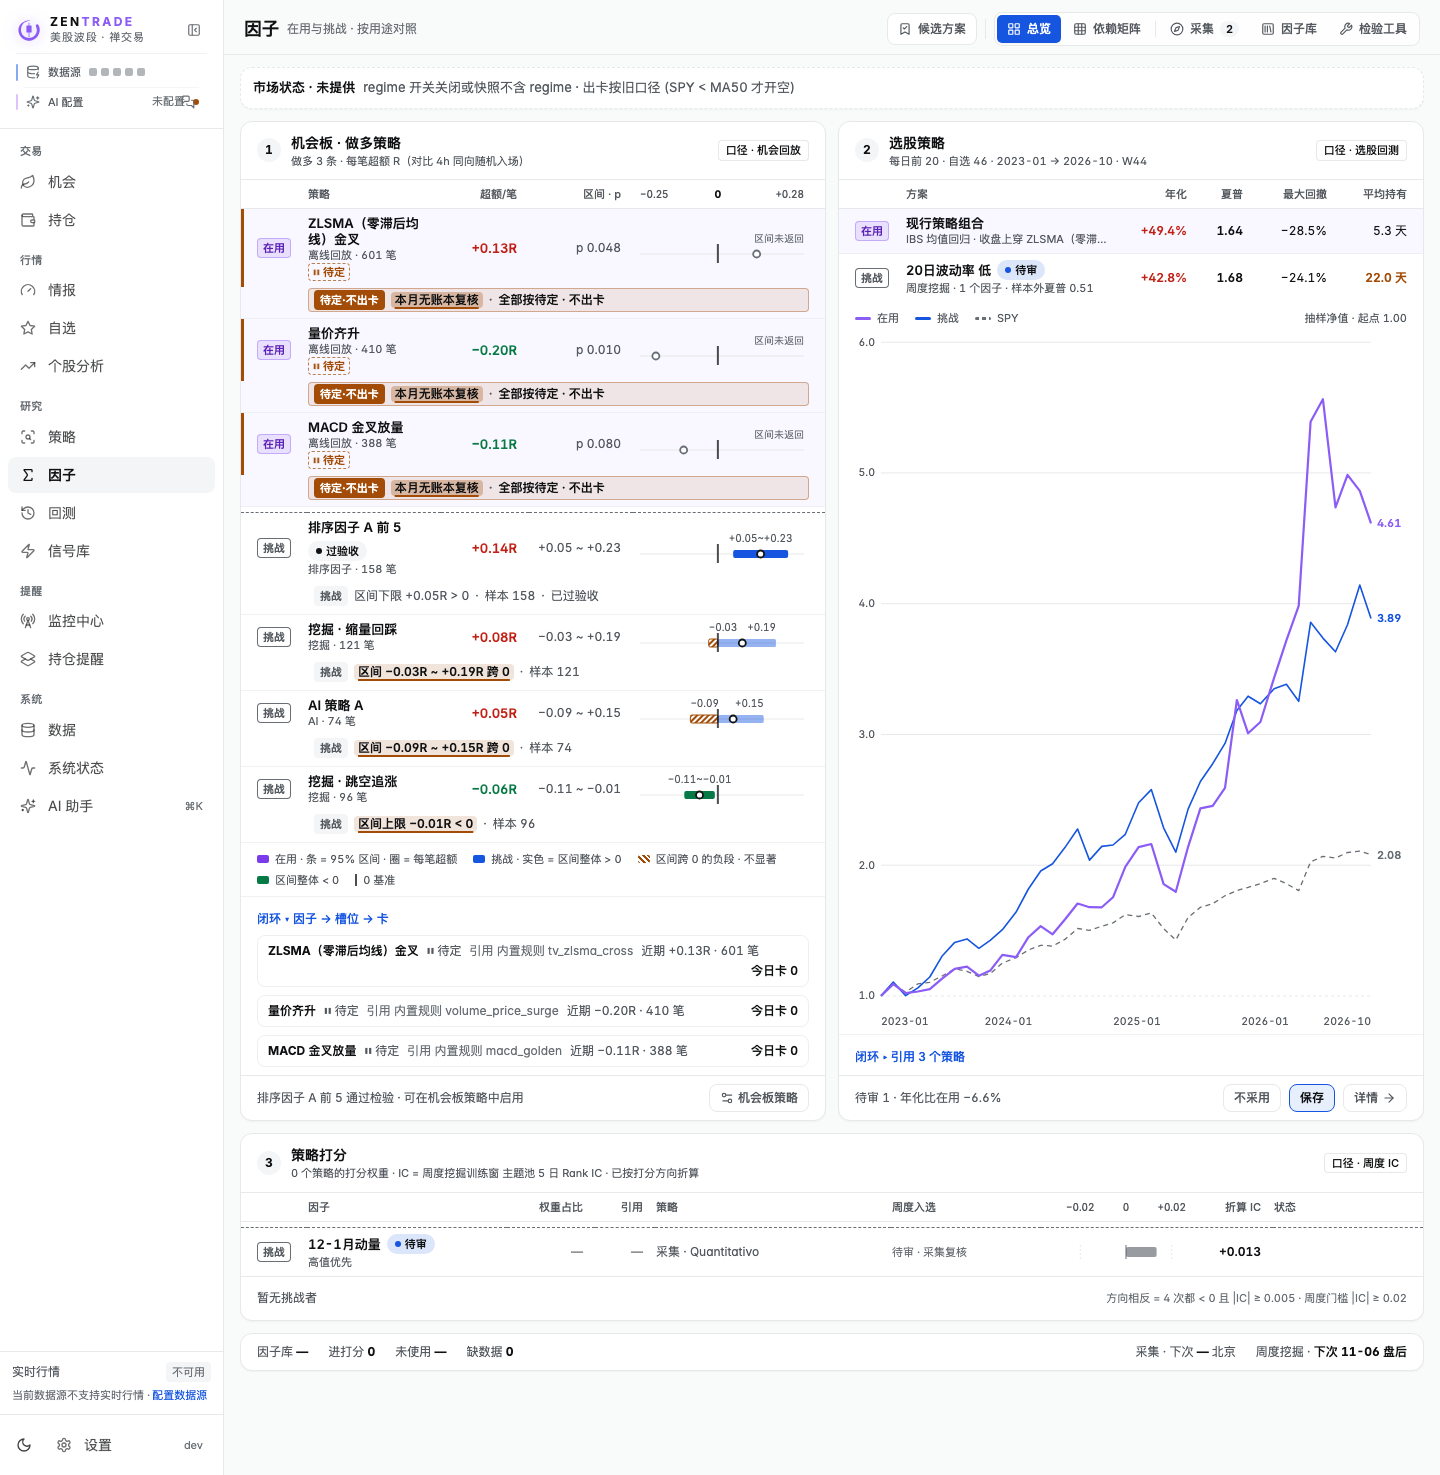
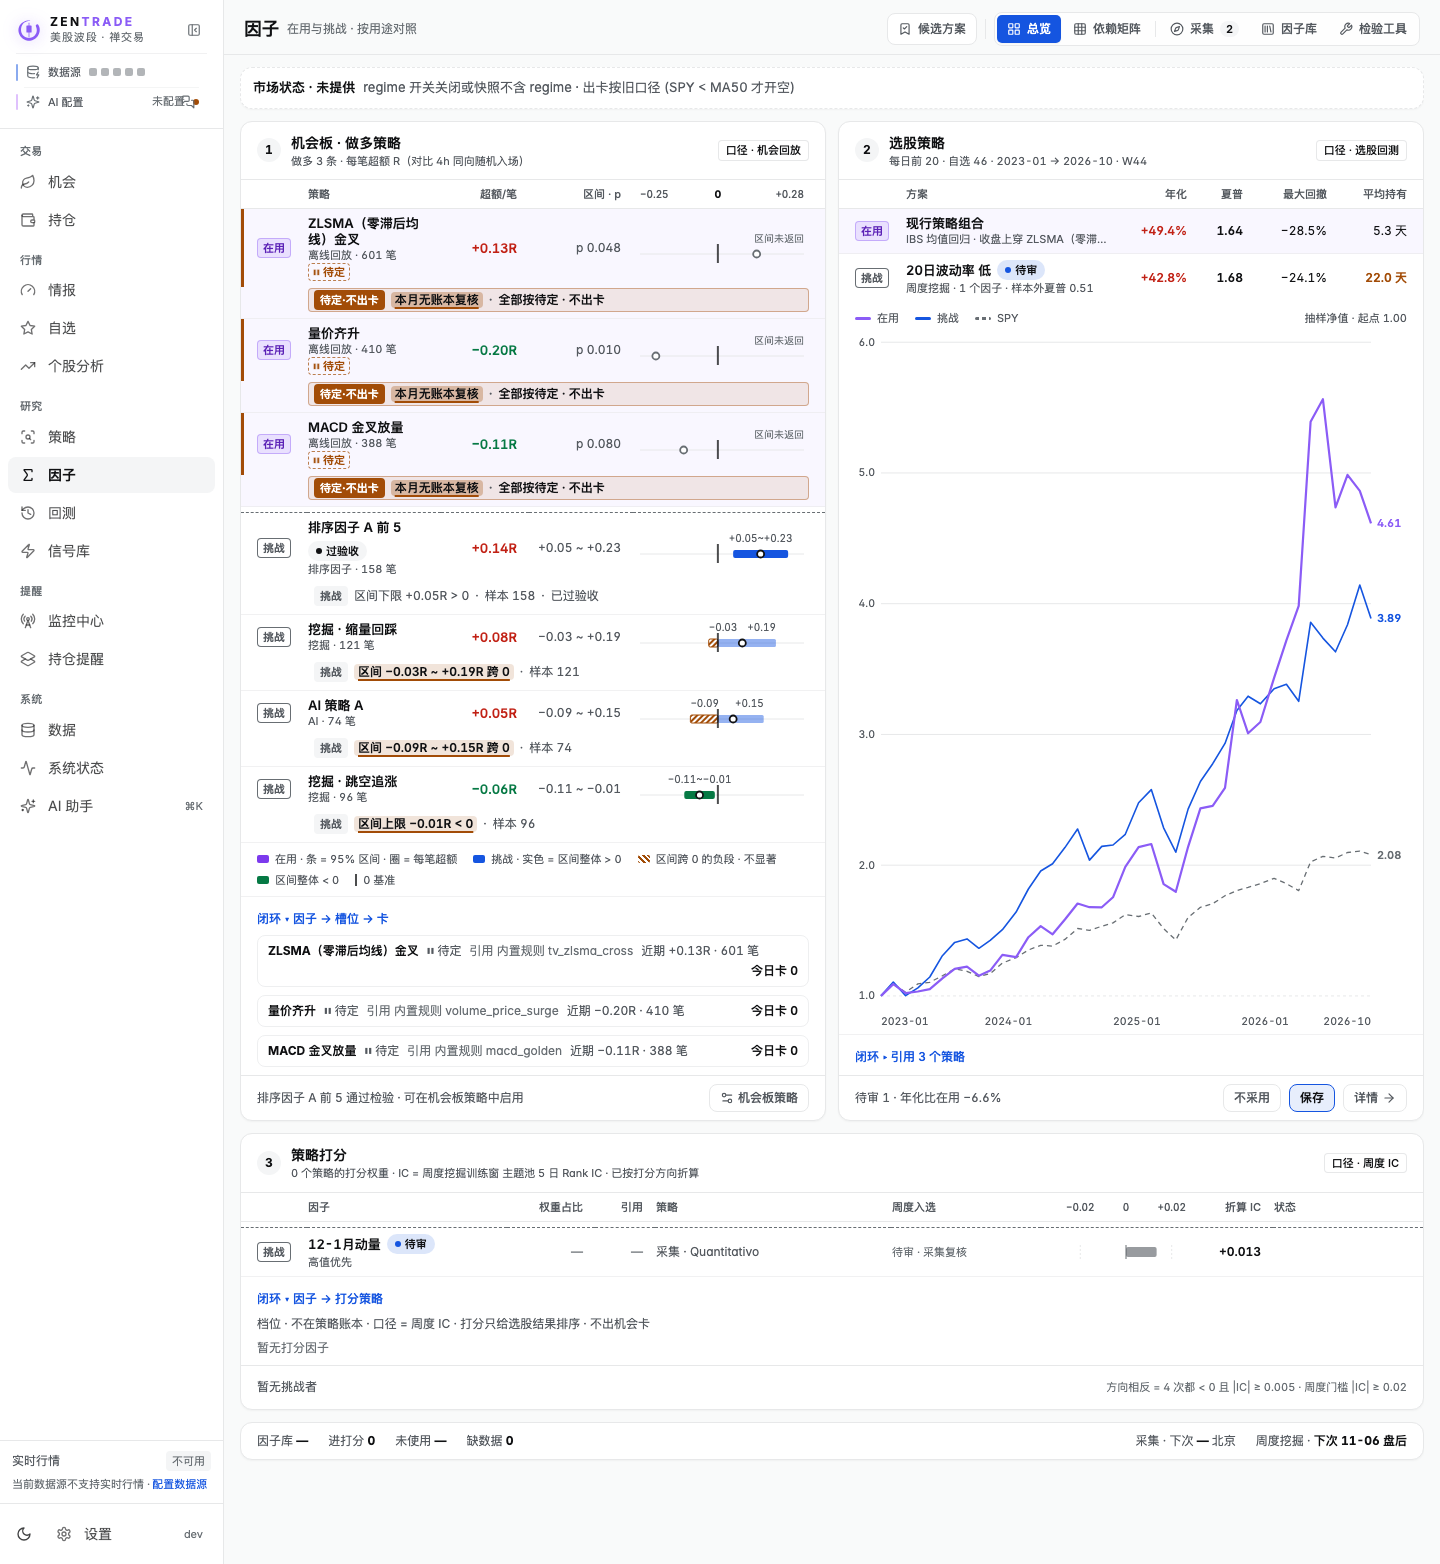
docs(ekko-todo): #10 审查修正截图与 README: 写明账本区间未交付(依赖后端卡 #11)及向前兼容效果 / 细节10出处 / 持仓网格同改 / 宽屏末行 / 自检加末行与打分闭环计数

diff --git a/frontend/src/components/opportunities/__fixtures__/p1scenes.ts b/frontend/src/components/opportunities/__fixtures__/p1scenes.ts
@@ -43,6 +43,13 @@ export const OPP = {
     strategies: [{ id: 'tv_zlsma_cross', name: 'ZLSMA 金叉' }], score_components: { rules: [{ strategy: 'tv_zlsma_cross', n: 601, excess: 0.127, shrunk: 0.121, tier: 'active' }], k: 30, total: 0.121 } }],
   { regime: REGIME_CALM, ledger: { ...LEDGER, regime: '进攻', cells: { 'tv_zlsma_cross|long': { n: 601, excess: 0.127, tier: '在用' } } } }), ['tv_zlsma_cross'], []),
   empty: page(swingWith([], { regime: REGIME_CALM, ledger: { ...LEDGER, regime: '进攻', cells: { 'tv_zlsma_cross|long': { n: 601, excess: 0.127, tier: '在用' } } } }), ['tv_zlsma_cross'], []),
+  /** 模拟后端卡 #11 合并后: 账本格带 ci_low / ci_high (现行后端不带) */
+  ci: page(swingWith([], { regime: REGIME_CALM, ledger: { ...LEDGER, regime: '进攻', cells: {
+    'tv_zlsma_cross|long': { n: 601, excess: 0.127, tier: '在用', ci_low: 0.001, ci_high: 0.252 },
+    'tv_halftrend|short': { n: 164, excess: 0.249, tier: '在用', ci_low: 0.147, ci_high: 0.352 },
+    'tv_chandelier_exit|short': { n: 210, excess: 0.031, tier: '观察', ci_low: -0.05, ci_high: 0.11 },
+    'volume_price_surge|long': { n: 410, excess: -0.203, tier: '冷冻', ci_low: -0.31, ci_high: -0.09 },
+    'macd_golden|long': { n: 388, excess: -0.112, tier: '待定' } } } }), ['tv_zlsma_cross'], SHORT),
   anomaly: page(swingWith([CARDS.observe, CARDS.t1], { ledger: { status: 'unavailable', month: '2026-12', regime: '震荡', k: 30, cells: {} } }), LONG3, SHORT),
 }
 

diff --git a/docs/ui-shots/tools/shoot.py b/docs/ui-shots/tools/shoot.py
@@ -78,12 +78,21 @@ COUNT_JS = r"""() => {
   for (const r of q('[data-loop-rule]')) {
     const c = r.querySelector('[data-loop-count]'); eq(`闭环 ${r.getAttribute('data-loop-rule')}`, Number(c.getAttribute('data-loop-count')), r.querySelectorAll('[data-loop-card]').length)
   }
-  // 末行不留整列空白: 每个卡片网格最后一张卡的右缘 = 网格内容区右缘
+  // 末行不偏到一侧: 末行左右空白相差 ≤ 2px (补齐或居中), 且任何卡不超过 2 个列宽 (宽屏不拉满整行)
   for (const g of q('[data-grid-fill]')) {
     const kids = [...g.children]; if (!kids.length) continue
-    const cs = getComputedStyle(g), gr = g.getBoundingClientRect(), last = kids[kids.length - 1].getBoundingClientRect()
-    const right = gr.right - parseFloat(cs.paddingRight) - parseFloat(cs.borderRightWidth)
-    if (right - last.right > 2) bad.push(`末行留白 ${g.getAttributeNames().filter(a => a.startsWith('data-'))[0]}: ${Math.round(right - last.right)}px`)
+    const cs = getComputedStyle(g), gr = g.getBoundingClientRect()
+    const L = gr.left + parseFloat(cs.paddingLeft) + parseFloat(cs.borderLeftWidth), Rr = gr.right - parseFloat(cs.paddingRight) - parseFloat(cs.borderRightWidth)
+    const rects = kids.map(k => k.getBoundingClientRect()), top = Math.max(...rects.map(r => Math.round(r.top)))
+    const row = rects.filter(r => Math.round(r.top) === top)
+    const lg = Math.min(...row.map(r => r.left)) - L, rg = Rr - Math.max(...row.map(r => r.right))
+    const name = g.getAttributeNames().filter(a => a.startsWith('data-') && a !== 'data-grid-fill')[0]
+    if (Math.abs(lg - rg) > 2) bad.push(`末行偏一侧 ${name}: 左 ${Math.round(lg)} 右 ${Math.round(rg)}`)
+    const col = Math.min(...rects.map(r => r.width)), gap = parseFloat(cs.columnGap) || 0
+    for (const r of rects) if (r.width > col * 2 + gap + 2) bad.push(`卡跨超过 2 列 ${name}: ${Math.round(r.width)}px`)
+  }
+  for (const f of q('[data-loop-factor]')) {
+    const c = f.querySelector('[data-loop-count]'); eq(`打分闭环 ${f.getAttribute('data-loop-factor')}`, Number(c.getAttribute('data-loop-count')), f.querySelectorAll('[data-loop-strategy]').length)
   }
   // 同一张表的区间条: 0 基准线横坐标一致 (全表同一刻度)
   for (const t of q('table')) {
@@ -130,15 +139,15 @@ PERIPHERAL = {
 
 def run():
     results, fps = {}, {}
-    plan = [('opp', s) for s in ('full', 'two', 'sparse', 'empty', 'anomaly')] + [('factor', s) for s in ('full', 'sparse', 'anomaly')]
+    plan = [('opp', s) for s in ('full', 'two', 'sparse', 'empty', 'anomaly', 'ci')] + [('factor', s) for s in ('full', 'sparse', 'anomaly')]
     with sync_playwright() as p:
         exe = os.environ.get('PW_CHROMIUM')  # 本机 playwright 包与已缓存浏览器版本不一致时显式指定
         br = p.chromium.launch(executable_path=exe) if exe else p.chromium.launch()
         for kind, sc in plan:
             for vname, vp in VIEWS.items():
-                if sc in ('sparse', 'empty', 'two') and vname == 'mobile':
+                if sc in ('sparse', 'empty', 'two', 'ci') and vname == 'mobile':
                     continue
-                if vname == 'wide' and sc != 'two':  # 宽屏只用来复现「2 张卡占 3 列」
+                if vname == 'wide' and (kind != 'opp' or sc not in ('two', 'full')):  # 宽屏: 复现「2 张卡占 3 列」+ 4 列 5 张末行
                     continue
                 if ONLY and sc not in ONLY:
                     continue
@@ -173,8 +182,10 @@ def run():
                     raise
                 if kind == 'opp' and sc == 'full' and page.locator('[data-attr-toggle="AMD"]').count():
                     page.click('[data-attr-toggle="AMD"]')
-                if kind == 'factor' and page.locator('[data-loop-toggle="board"]').count():
-                    page.click('[data-loop-toggle="board"]')
+                if kind == 'factor':
+                    for t in ('board', 'scoring'):
+                        if page.locator(f'[data-loop-toggle="{t}"]').count():
+                            page.click(f'[data-loop-toggle="{t}"]')
                 page.wait_for_timeout(400)
                 # Layout 的 <main> 是内部滚动容器: 截图前展开成文档流, full_page 才能截到整页 (只作用于截图)
                 page.add_style_tag(content='html,body,#root,#root>div{height:auto!important;min-height:0!important;overflow:visible!important}'
@@ -185,6 +196,8 @@ def run():
                 # 细节对照的局部截图
                 if kind == 'factor' and sc == 'full' and vname == 'desktop':
                     page.locator('[data-slot="board"]').screenshot(path=str(OUT / f'{PREFIX}detail-ci-reason.png'))
+                if kind == 'opp' and sc == 'ci' and vname == 'desktop':
+                    page.locator('[data-ledger]').screenshot(path=str(OUT / f'{PREFIX}detail-ledger-ci.png'))
                 if kind == 'opp' and sc in ('two', 'full') and vname in ('desktop', 'wide'):
                     page.locator('[data-board]').screenshot(path=str(OUT / f'{PREFIX}detail-grid-{sc}-{vname}.png'))
                 chk = page.evaluate(CHECK_JS, SCOPE)

diff --git a/docs/ui-shots/README.md b/docs/ui-shots/README.md
@@ -5,12 +5,26 @@
 `frontend/src/components/opportunities/__fixtures__/p1scenes.ts`, 用 [tools/dump-scenes.mjs](tools/dump-scenes.mjs) 导成 JSON,
 [tools/shoot.py](tools/shoot.py) 截图并自检。全部为虚拟数据, 非实时行情。
 
+## 未交付项 (如实说明)
+
+- **机会页账本的 95% 区间: 真实数据下未交付。** 区间依赖后端透传 `ci_low` / `ci_high`, 现行后端
+  `strategy_ledger.ledger_view` 只给 `{n, excess, tier}`; 本卡禁改后端, 已另开后端卡 #11。
+  前端已做成向前兼容: 账本格一旦带这两个字段就按全表同一刻度画区间条, 缺值的行写「区间未返回」且条宽不变;
+  #11 合并后前端无需再改。模拟 #11 合并后的效果见 [states/ledger-ci-forward-compat.png](states/ledger-ci-forward-compat.png)。
+  主截图里账本各行写「区间未返回」, 即现行后端下的真实样子。
+- **冷冻理由**: 账本切片不带「哪条触发冷冻」。只有拿到区间上限且 < 0 时才写「区间上限 X < 0」, 否则写
+  「冷冻 · 触发条件未返回 (复核连负 / 区间上限为负 / 延续上月冷冻 之一)」, 不猜具体原因。
+
 ## 主截图 (1440×900 桌面 / 390 宽手机)
 
 | 页面 | 桌面 | 手机 |
 |---|---|---|
 | 机会页 (满: 5 张可下单卡 + 观察级 1 + T1 1, 账本 7 条分五个档位, 归因展开) | [opp-desktop.png](opp-desktop.png) | [opp-mobile.png](opp-mobile.png) |
-| 因子页 (满: 在用 3 + 挑战 4, 理由行 7, 闭环展开) | [factor-desktop.png](factor-desktop.png) | [factor-mobile.png](factor-mobile.png) |
+| 因子页 (满: 在用 3 + 挑战 4, 理由行 7, 槽位 1 与槽位 3 闭环展开) | [factor-desktop.png](factor-desktop.png) | [factor-mobile.png](factor-mobile.png) |
+
+因子页理由行开头写出处「账本·<当前 regime>格 <月份>」, 与左侧「回放」超额列不同源, 不混用。
+槽位 3 (策略打分) 闭环写明「不在策略账本 · 口径 = 周度 IC · 打分只给选股结果排序 · 不出机会卡」;
+截图数据里打分策略列表为空, 所以展开处显示「暂无打分因子」, 有数据时的渲染由 vitest 用例守着。
 
 ## 数据密度
 
@@ -18,22 +32,29 @@
 - 异常 (观察级卡 + T1 卡 + 无 regime 降级 + 账本 unavailable):
   [机会页桌面](states/opp-anomaly-desktop.png) · [机会页手机](states/opp-anomaly-mobile.png) ·
   [因子页桌面](states/factor-anomaly-desktop.png) · [因子页手机](states/factor-anomaly-mobile.png)
+- 宽屏 1920 满卡: [states/opp-full-wide.png](states/opp-full-wide.png)
 
 ## 用户指定三处细节: 修前 / 修后
 
-修前 = 基线 `1a57c1c` 同一份数据同一脚本; 用户描述的原状见参考稿 [prototype-factor-desktop.png](compare/prototype-factor-desktop.png)。
+修前 = 基线 `1a57c1c` 同一份数据同一脚本。
+
+**细节 10 的出处**: 用户说的「选股槽位只有 2 张卡却占 3 列」出自参考稿 `docs/prototype/factor-next.html`
+([prototype-factor-desktop.png](compare/prototype-factor-desktop.png)); **现行因子页没有这种卡片网格**。
+同一问题在现行代码里出现在机会页卡片网格 (`Cards.tsx` 的 `GRID`, `auto-fill`), 本卡修的是这里;
+因子页新增的闭环卡片小网格也用同一套规则。持仓卡网格与今日机会共用 `GRID`, 也一并换成末行补齐 (不在任务明确范围内, 特此说明)。
 
 | 细节 | 修前 | 修后 |
 |---|---|---|
-| 10 卡片网格右缘留白 (1920 宽, 2 张卡) | [10-grid-before.png](compare/10-grid-before.png) 2 张卡占 3 列, 右侧空一列 | [10-grid-after.png](compare/10-grid-after.png) `auto-fit` 收掉空列 + 末行最后一张补齐剩余列 |
+| 10 卡片网格右缘留白 (1920 宽, 2 张卡) | [10-grid-before.png](compare/10-grid-before.png) 2 张卡占 3 列, 右侧空一列 | [10-grid-after.png](compare/10-grid-after.png) `auto-fit` 收掉空列 |
+| 10 多行末行 (1920 宽, 3 列 5 张) | — | [10-grid-wide-5cards-after.png](compare/10-grid-wide-5cards-after.png) 末行卡按剩余列加宽, 每张最多跨 2 列, 仍有空列则居中 |
 | 11 95% 区间条区分度 | [11-12-ci-reason-before.png](compare/11-12-ci-reason-before.png) 固定 −0.15~+0.25 全幅, 虚线 0, 无端点数 | [11-12-ci-reason-after.png](compare/11-12-ci-reason-after.png) 刻度按数据收紧 (全表同一把), 0 基准实线贯穿, 跨 0 负段琥珀斜纹, 端点标数值, 最小宽 8px |
-| 12 淘汰理由警示度 | 同上 (原页面无理由列) | 同上: 换下 / 待定·不出卡 行浅琥珀底 + 加粗, 触发条件 (如「连续 2 次月度复核 < 0」「区间上限 −0.01R < 0」) 高亮 + 下划线 |
+| 12 淘汰理由警示度 | 同上 (原页面无理由列) | 同上: 换下 / 待定·不出卡 行浅琥珀底 + 加粗, 触发条件 (如「超额 −0.11R ≤ 0」「区间上限 −0.01R < 0」) 高亮 + 下划线 |
 
 ## 自检结果
 
-[check.json](check.json) (12 张) 与 [check-wide.json](check-wide.json) (宽屏 2 张): JS 报错 / 横向溢出 / 新组件文字截断 / 文字重叠 /
-对比度 (WCAG AA) / 计数断言 (账本总数与各档、今日机会、观察级、闭环今日卡数 = 实际行/卡数; 网格末行不留白; 同表 0 基准对齐) /
-两页 regime 指纹一致 —— 全部 0。
+[check.json](check.json) (15 张, 含宽屏与区间兼容场景): JS 报错 / 横向溢出 / 新组件文字截断 / 文字重叠 /
+对比度 (WCAG AA) / 计数断言 (账本总数与各档、今日机会、观察级、槽位 1 闭环今日卡数、槽位 3 闭环引用策略数 = 实际行/卡数;
+网格末行左右空白相差 ≤ 2px 且单卡不超过 2 列宽; 同表 0 基准对齐) / 两页 regime 指纹一致 —— 全部 0。
 
 复跑: 前端起 Vite dev (`BACKEND_PORT` 指向不存在的端口即可), 然后
 `node docs/ui-shots/tools/dump-scenes.mjs <scenes.json>` (在 frontend 目录) →
